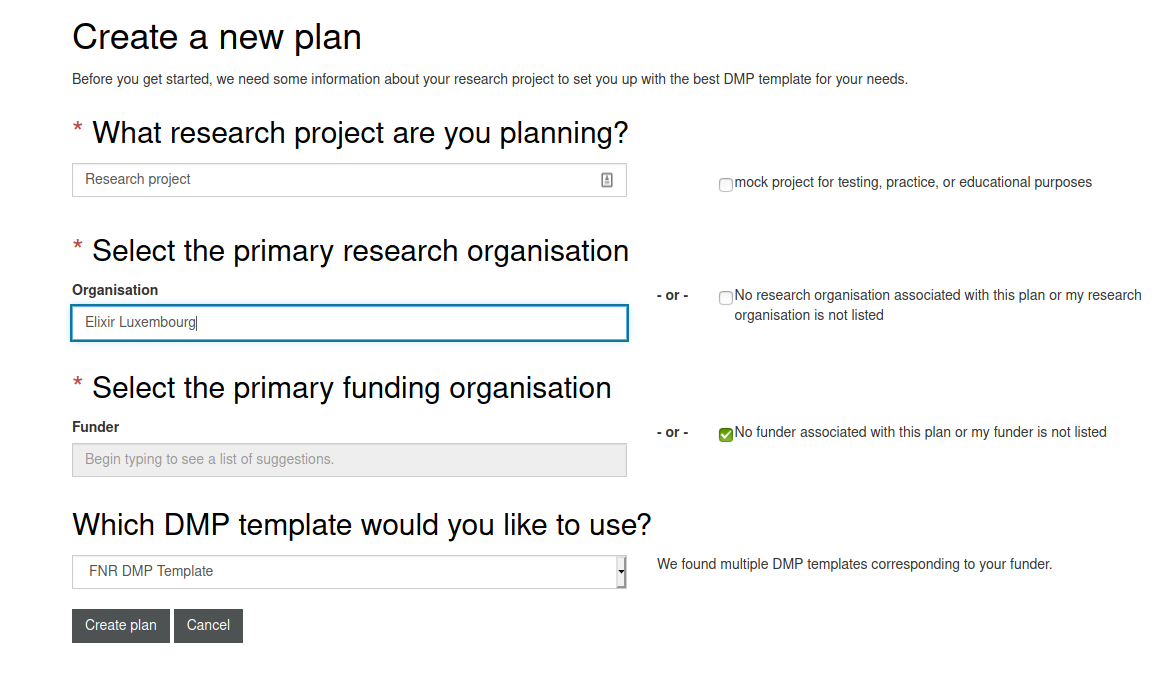
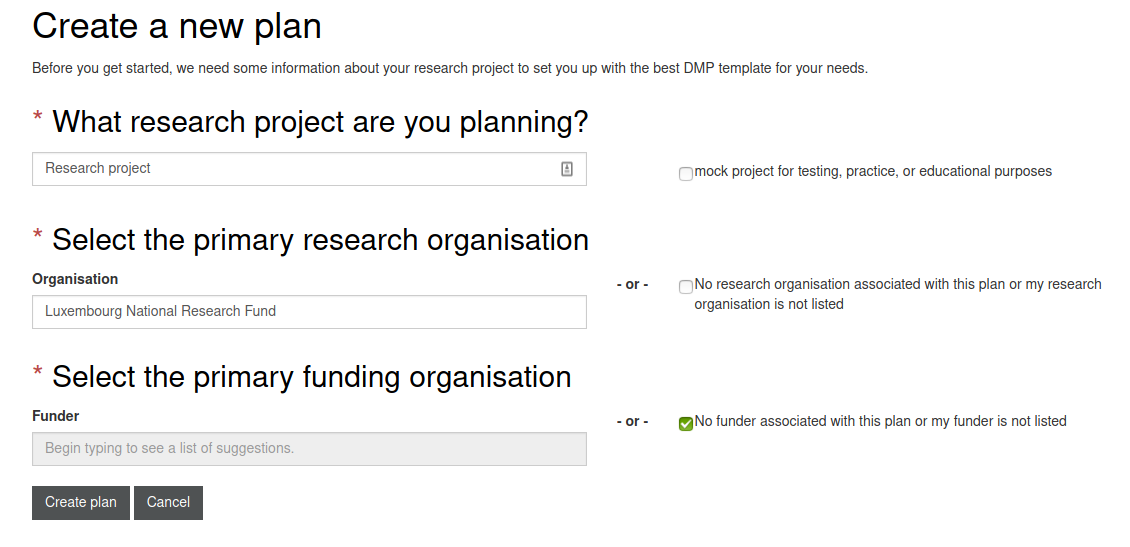
changing primary organisation to FNR

diff --git a/README.md b/README.md
@@ -20,7 +20,7 @@ Before starting the practical, make sure you have the following ready:
 
 * Login to Dmponline, and you will be on the `My Dashboard` page, you can choose the language you want.
 * to start creating your Plan, click on the button `create plans` on the top menu or `create plan` on the botton of the Dashboard.<br/> <br/><br/>![Alt](./create_plan.png)<br/><br/><br/>
-* Enter the title of the project, the primary organisation: to have access to the FNR DMP template, select `Elixir Luxembourg`, and your primary funder: tick the box `No funder associated with this plan`. After That, you will be asked which template you would like to use: select the FNR DMP template. <br/> <br/><br/>![Alt](./new_plan.png)<br/><br/><br/>
+* Enter the title of your project, your primary organisation: to have access to the FNR DMP template, select `Luxembourg National Research Fund`, and your primary funder: tick the box `No funder associated with this plan`. After That, you will be able to write a plan based on the FNR DMP template. <br/> <br/><br/>![Alt](./new_plan.png)<br/><br/><br/>
 * The next page will show you different features that will allow you to edit your plan (project details, adding contributors and your plan overview). The plan overview will show you the context of your DMP plan, the different sections with questions that will allow you to refine the writing of your DMP. <br/> <br/><br/>![Alt](./project_details.png)<br/><br/><br/>. You can start writing your plan by clicking on the `Write Plan` button, which will show you an overview of the different sections of your plan <br/> <br/><br/>![Alt](./write_plan.png)<br/><br/><br/>. 
 * For each section you have several questions, and for each question, as you can see on the left menu, the tool gives guidance on the content of the answers you can bring. It also provides a `comments` part, in which you can add comments to share with your colaborators. <br/> <br/><br/>![Alt](./write_plan2.png)<br/><br/><br/>
 *  Do not forget to save your answers from time to time.
